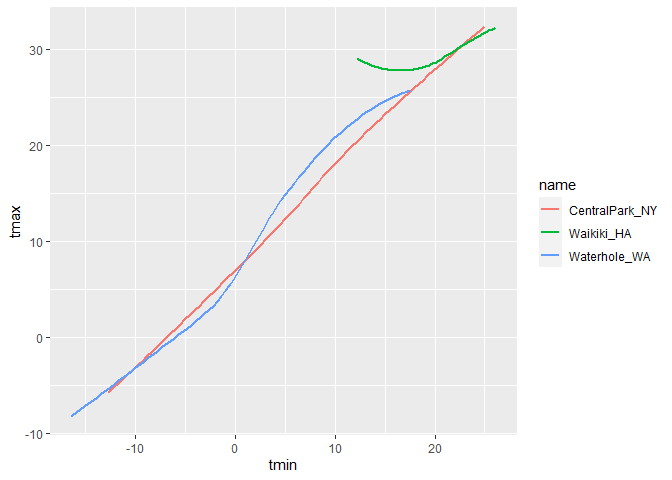
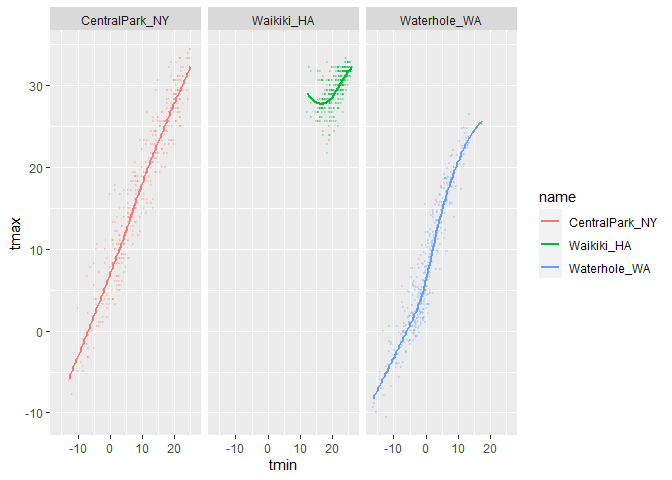
3rd commit

diff --git a/viz_i.md b/viz_i.md
@@ -25,7 +25,7 @@ library(ggridges)
 ``` r
 weather_df = 
   rnoaa::meteo_pull_monitors(
-    c("USW00094728", "USC00519397", "USS0023B17S"),
+    c("USW00094728", "USC00519397", "USS0023B17S"),#pick out 2 datasets
     var = c("PRCP", "TMIN", "TMAX"), #download from the internet
     date_min = "2017-01-01",
     date_max = "2017-12-31") %>%
@@ -83,6 +83,37 @@ weather_df
 
 ## Scatterplots
 
+tmax vs tmin
+
+``` r
+weather_df %>% 
+  ggplot(aes(x = tmin, y = tmax)) +
+  geom_point()#relationship between tmin and tmax
+```
+
+    ## Warning: Removed 15 rows containing missing values (geom_point).
+
+![](viz_i_files/figure-gfm/unnamed-chunk-2-1.png)<!-- -->
+
+you can save ggplots
+
+``` r
+ggp_tmax_tmin = 
+  weather_df %>% 
+  ggplot(aes(x = tmin, y = tmax)) +
+  geom_point()
+
+ggp_tmax_tmin
+```
+
+    ## Warning: Removed 15 rows containing missing values (geom_point).
+
+![](viz_i_files/figure-gfm/unnamed-chunk-3-1.png)<!-- -->
+
+``` r
+#ggsave()
+```
+
 create my first scatterplot ever
 
 ``` r
@@ -92,7 +123,7 @@ ggplot(weather_df,aes(x = tmin, y = tmax)) +
 
     ## Warning: Removed 15 rows containing missing values (geom_point).
 
-![](viz_i_files/figure-gfm/unnamed-chunk-2-1.png)<!-- -->
+![](viz_i_files/figure-gfm/unnamed-chunk-4-1.png)<!-- -->
 
 New approach, same plot
 
@@ -118,7 +149,7 @@ weather_df %>% #add sth like filter or mutate is ok
 
     ## Warning: Removed 15 rows containing missing values (geom_point).
 
-![](viz_i_files/figure-gfm/unnamed-chunk-4-1.png)<!-- -->
+![](viz_i_files/figure-gfm/unnamed-chunk-6-1.png)<!-- -->
 
 \#\#Opyions to read\_csv
 
@@ -164,33 +195,25 @@ weather_df %>%
 
     ## Warning: Removed 15 rows containing missing values (geom_point).
 
-![](viz_i_files/figure-gfm/unnamed-chunk-7-1.png)<!-- -->
+![](viz_i_files/figure-gfm/unnamed-chunk-9-1.png)<!-- -->
 
 What about the `aes` placement..?
 
 ``` r
 weather_df %>% 
-  ggplot(aes(x = tmin, y = tmax))
+  ggplot(aes(x = tmin, y = tmax)) +
+  geom_point(aes(color = name), alpha = .3) +#alpha = ͸挼㸳昼㸷戼㸶挼㸸
+  geom_smooth(se = FALSE) + #color only apply to point, and smooth will not get the color from point
+  facet_grid(. ~ name)#devide 3 name dataframe into 3 separate form
 ```
 
-![](viz_i_files/figure-gfm/unnamed-chunk-8-1.png)<!-- -->
+    ## `geom_smooth()` using method = 'loess' and formula 'y ~ x'
 
-``` r
-  geom_point(aes(color = name))
-```
+    ## Warning: Removed 15 rows containing non-finite values (stat_smooth).
 
-    ## mapping: colour = ~name 
-    ## geom_point: na.rm = FALSE
-    ## stat_identity: na.rm = FALSE
-    ## position_identity
+    ## Warning: Removed 15 rows containing missing values (geom_point).
 
-``` r
-  geom_smooth()#color only apply to point, and smooth will not get the color from point
-```
-
-    ## geom_smooth: na.rm = FALSE, orientation = NA, se = TRUE
-    ## stat_smooth: na.rm = FALSE, orientation = NA, se = TRUE
-    ## position_identity
+![](viz_i_files/figure-gfm/unnamed-chunk-10-1.png)<!-- -->
 
 Let’s facet somenthings!
 
@@ -208,7 +231,50 @@ weather_df %>%
 
     ## Warning: Removed 15 rows containing missing values (geom_point).
 
-![](viz_i_files/figure-gfm/unnamed-chunk-9-1.png)<!-- -->
+![](viz_i_files/figure-gfm/unnamed-chunk-11-1.png)<!-- -->
+
+let’s make one more scatterplot.
+
+``` r
+weather_df %>% 
+  ggplot(aes(x = date, y = tmax, size = prcp)) +
+  geom_point(alpha = .3) +
+  facet_grid(. ~ name) +
+  geom_smooth(se = FALSE)
+```
+
+    ## `geom_smooth()` using method = 'loess' and formula 'y ~ x'
+
+    ## Warning: Removed 3 rows containing non-finite values (stat_smooth).
+
+    ## Warning: Removed 3 rows containing missing values (geom_point).
+
+![](viz_i_files/figure-gfm/unnamed-chunk-12-1.png)<!-- -->
+
+\#\#use data manipulation as part of this
+
+``` r
+weather_df %>% 
+  filter(name == "CentralPark_NY") %>% 
+  mutate(
+    tmax = tmax * (9 / 5) + 32,
+    tmin = tmin * (9 / 5) + 32
+  ) %>% 
+  ggplot(aes(x = tmin, y = tmax)) +
+  geom_point()
+```
+
+![](viz_i_files/figure-gfm/unnamed-chunk-13-1.png)<!-- -->
+
+``` r
+weather_df %>% 
+  ggplot(aes(x = tmin, y = tmax)) +
+  geom_hex() 
+```
+
+    ## Warning: Removed 15 rows containing non-finite values (stat_binhex).
+
+![](viz_i_files/figure-gfm/unnamed-chunk-14-1.png)<!-- -->
 
 Let’s combine some elements and try a new plot
 
@@ -226,7 +292,7 @@ weather_df %>%
 
     ## Warning: Removed 3 rows containing missing values (geom_point).
 
-![](viz_i_files/figure-gfm/unnamed-chunk-10-1.png)<!-- -->
+![](viz_i_files/figure-gfm/unnamed-chunk-15-1.png)<!-- -->
 
 ## somr small notes
 
@@ -242,7 +308,7 @@ weather_df %>%
 
     ## Warning: Removed 15 rows containing non-finite values (stat_smooth).
 
-![](viz_i_files/figure-gfm/unnamed-chunk-11-1.png)<!-- -->
+![](viz_i_files/figure-gfm/unnamed-chunk-16-1.png)<!-- -->
 
 You can use a neat geom!
 
@@ -254,7 +320,7 @@ weather_df %>%
 
     ## Warning: Removed 15 rows containing non-finite values (stat_binhex).
 
-![](viz_i_files/figure-gfm/unnamed-chunk-12-1.png)<!-- -->
+![](viz_i_files/figure-gfm/unnamed-chunk-17-1.png)<!-- -->
 
 ``` r
 weather_df %>% 
@@ -267,7 +333,7 @@ weather_df %>%
 
     ## Warning: Removed 15 rows containing missing values (geom_point).
 
-![](viz_i_files/figure-gfm/unnamed-chunk-13-1.png)<!-- -->
+![](viz_i_files/figure-gfm/unnamed-chunk-18-1.png)<!-- -->
 
 ## Univariate plots(x and y are both varies)
 
@@ -283,7 +349,7 @@ weather_df %>%
 
     ## Warning: Removed 15 rows containing non-finite values (stat_bin).
 
-![](viz_i_files/figure-gfm/unnamed-chunk-14-1.png)<!-- -->
+![](viz_i_files/figure-gfm/unnamed-chunk-19-1.png)<!-- -->
 
 can we add color ..
 
@@ -297,7 +363,7 @@ weather_df %>%
 
     ## Warning: Removed 15 rows containing non-finite values (stat_bin).
 
-![](viz_i_files/figure-gfm/unnamed-chunk-15-1.png)<!-- -->
+![](viz_i_files/figure-gfm/unnamed-chunk-20-1.png)<!-- -->
 
 ``` r
 weather_df %>% 
@@ -310,7 +376,7 @@ weather_df %>%
 
     ## Warning: Removed 15 rows containing non-finite values (stat_bin).
 
-![](viz_i_files/figure-gfm/unnamed-chunk-16-1.png)<!-- -->
+![](viz_i_files/figure-gfm/unnamed-chunk-21-1.png)<!-- -->
 
 Let’s try a new geometry!
 
@@ -322,7 +388,7 @@ weather_df %>%
 
     ## Warning: Removed 15 rows containing non-finite values (stat_density).
 
-![](viz_i_files/figure-gfm/unnamed-chunk-17-1.png)<!-- -->
+![](viz_i_files/figure-gfm/unnamed-chunk-22-1.png)<!-- -->
 
 What about box plots??
 
@@ -334,7 +400,7 @@ weather_df %>%
 
     ## Warning: Removed 15 rows containing non-finite values (stat_boxplot).
 
-![](viz_i_files/figure-gfm/unnamed-chunk-18-1.png)<!-- -->
+![](viz_i_files/figure-gfm/unnamed-chunk-23-1.png)<!-- -->
 
 Trendy plots :-)
 
@@ -351,7 +417,7 @@ weather_df %>%
 
     ## No summary function supplied, defaulting to `mean_se()`
 
-![](viz_i_files/figure-gfm/unnamed-chunk-19-1.png)<!-- -->
+![](viz_i_files/figure-gfm/unnamed-chunk-24-1.png)<!-- -->
 
 Ridge plots – the most popular plot of 2017
 
@@ -365,7 +431,7 @@ geom_density_ridges()
 
     ## Warning: Removed 15 rows containing non-finite values (stat_density_ridges).
 
-![](viz_i_files/figure-gfm/unnamed-chunk-20-1.png)<!-- -->
+![](viz_i_files/figure-gfm/unnamed-chunk-25-1.png)<!-- -->
 
 ## Save and Embed
 
@@ -379,7 +445,7 @@ weather_df %>%
 
     ## Warning: Removed 15 rows containing missing values (geom_point).
 
-![](viz_i_files/figure-gfm/unnamed-chunk-21-1.png)<!-- -->
+![](viz_i_files/figure-gfm/unnamed-chunk-26-1.png)<!-- -->
 
 What about embedding…
 
